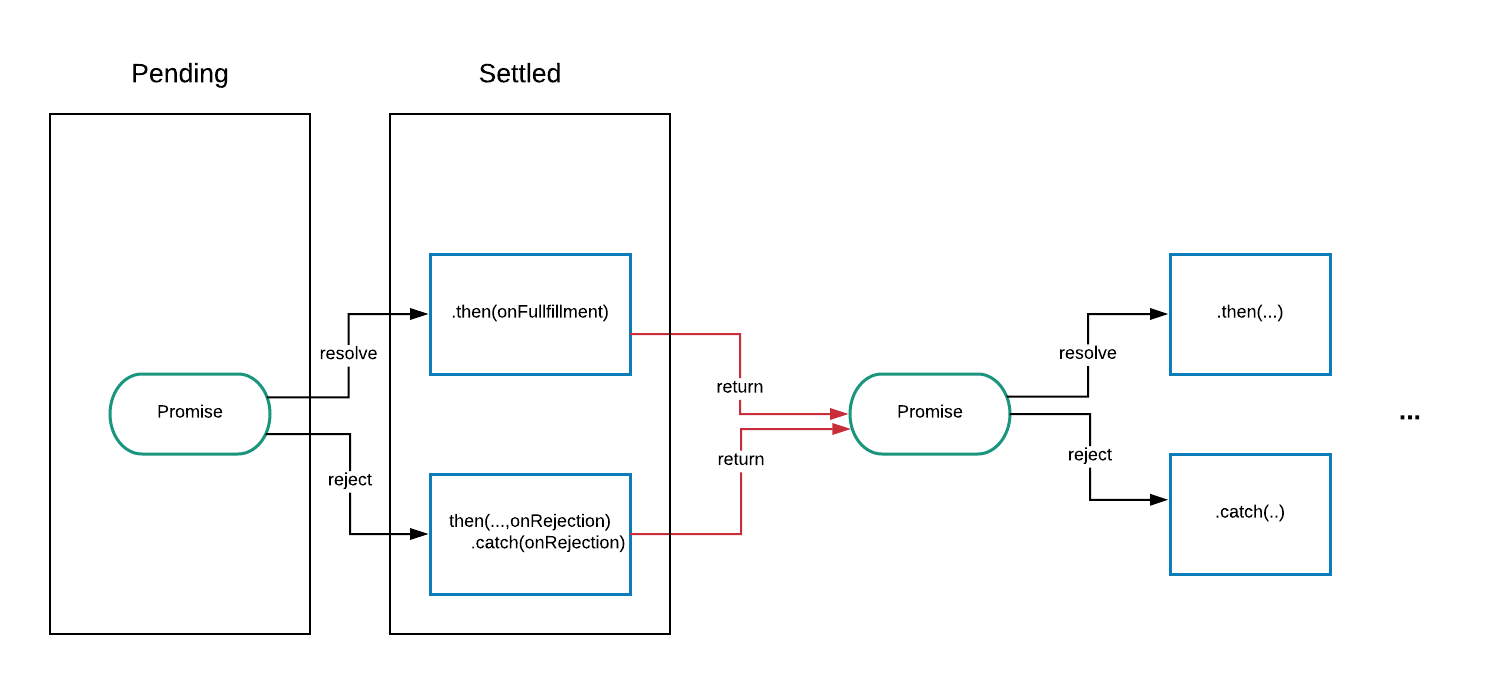
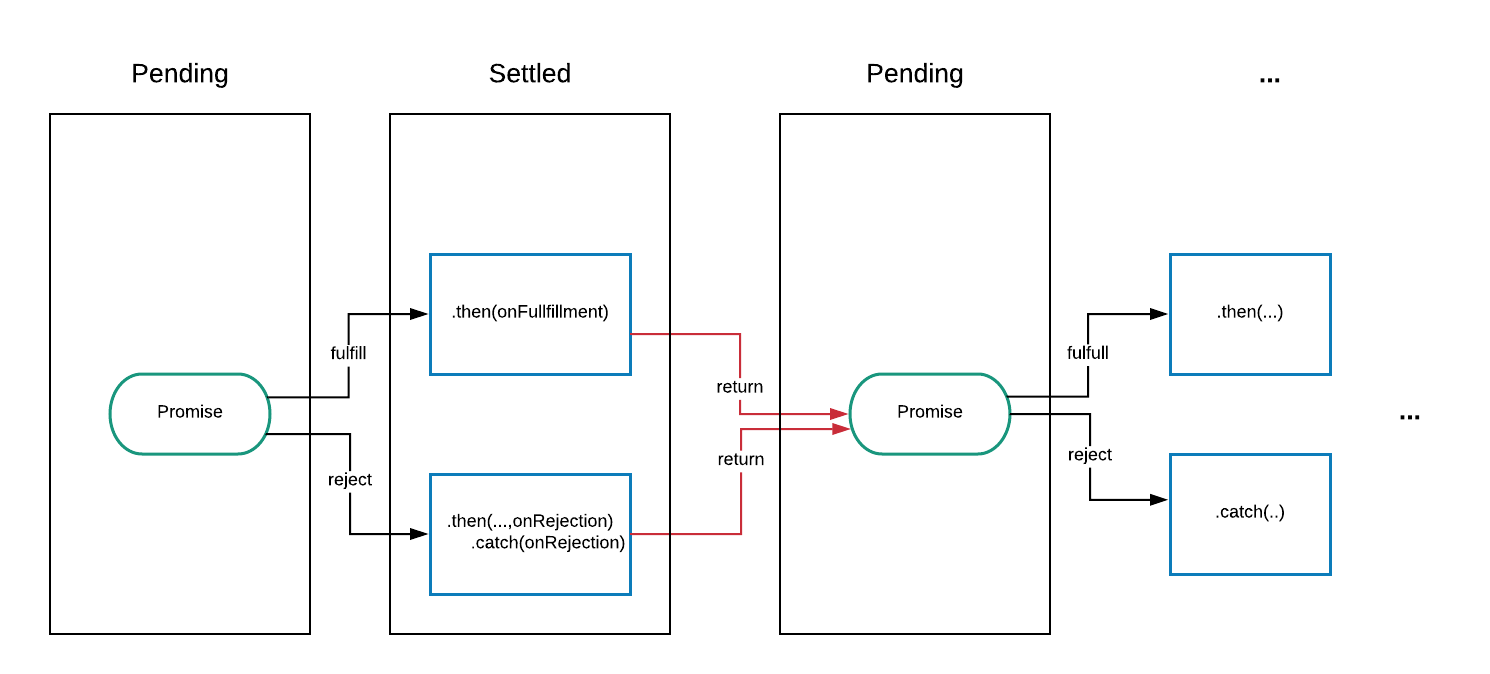
started with the rafactoring with promises

diff --git a/promises.tex b/promises.tex
@@ -1,6 +1,6 @@
 \section{Promises}
 
-Ein Promise repräsentiert ein Objekt das noch nicht absehbar ist, aber in Zukunft genutzt werden soll. Als Beispiel könnte man den Inhalt einer Datei, die von einem File-Server in einem Browser geladen werden soll, nehmen. Dieser ist auf Anhieb nicht verfügbar, da die Daten zunächst über das Netzwerk übertragen werden müssen. Anstatt auf den Download zu warten, führt der Browser diesen Prozess asynchron aus. Das Prinzip der asynchronen Verarbeitung, bringt dabei Komplexität nach sich. Um dem entgegenzuwirken hat man in dieser Arbeit schon das Prinzip der Callbacks kennengelernt. Dank der Rückruffunktionen ist die Ausführung dieser Sprache in asynchron möglich. Sollten jedoch mehrere asynchrone Events voneinander Abhängig sein, kann das schnell zu unübersichtlichem Code führen (siehe Abb. 9). Mit Promises können voneinander abhängige Events übersichtlich dargestellt werden. Dank der Promise-Verkettung ist es auch möglich Fehlerbehandlungen übersichtlich abzudecken. Während bei Callbacks der Fokus darin liegt, in welcher Reihenfolge die Funktionen aufgerufen werden, sind Promises (mit ECMAScript 2015 eingeführt) danach gerichtet wie man mit dem Ergebnis der Interaktion umgeht.
+Ein Promise repräsentiert ein Objekt das noch nicht absehbar ist, aber in Zukunft genutzt werden soll. Als Beispiel könnte man den Inhalt einer Datei, die von einem File-Server in einem Browser geladen werden soll, nehmen. Dieser ist auf Anhieb nicht verfügbar, da die Daten zunächst über das Netzwerk übertragen werden müssen. Anstatt auf den Download zu warten, führt der Browser diesen Prozess asynchron aus. Wenn die Daten angekommen sind, führt das Promise-Objekt die Aktionen mit den erstellten Verarbeitungsmethoden fort. Das Prinzip der asynchronen Verarbeitung, bringt dabei Komplexität nach sich. Um dem entgegenzuwirken hat man in dieser Arbeit schon das Prinzip der Callbacks kennengelernt. Dank der Rückruffunktionen ist es Möglich auf blockierende Aktionen zu warten bis diese eingetroffen sind. Sollten jedoch mehrere asynchrone Events voneinander Abhängig sein, kann das schnell zu unübersichtlichem Code führen (siehe Abb. 6). Mit Promises können voneinander abhängige Events übersichtlich dargestellt werden. Dank der Promise-Verkettung ist es auch möglich Fehlerbehandlungen übersichtlich abzudecken. Während bei Callbacks der Fokus darin liegt, in welcher Reihenfolge die Funktionen aufgerufen werden, sind Promises danach gerichtet wie man mit dem Ergebnis der Interaktion umgeht.
 
 \subsection{Funktionsweise}
 
@@ -68,12 +68,12 @@ console.log(resolveRightAway);
 \end{figure}
 
 \noindent
-Dieser Promise springt auf Anhieb vom pending in den resolved Zustand, da die abhängige boolean-Variable vorher auf true gesetzt wurde. Umgekehrt, würde die boolean Variable auf false gesetzt werden, würde der Status rejected entsprechen.
+Promises haben einen Status und einen Wert. Bei der Initialisierung einer Promise-Instanz ist der Status erstmals immer ausstehend (pending). In diesem Beispiel löst sich der Promise auf Anhieb vom ausstehenden in den eingetroffenen (resolved) Zustand auf, da die abhängige boolean-Variable vorher auf true gesetzt wurde. Umgekehrt, würde die boolean Variable auf false gesetzt werden, würde der Status abgelehnt (rejected) entsprechen.
 
 \begin{figure}[H]
 \centering
 \includegraphics[width=12cm]{promise-beispiel-1}
-\caption{Promises haben einen Status und einen Wert}
+\caption{}
 \end{figure}
 
 \noindent
@@ -110,11 +110,11 @@ Im oberen Beispiel wird der Promise vorbehaltlos nach zehn Sekunden aufgelöst, 
 \end{figure}
 
 \noindent
-Wie man nun gesehen hat kann ein Promise Objekt den Status  \textbf{pending}, \textbf{resolved} oder \textbf{rejected} haben. Im Status pending ist der Ausgang der Aktion noch ungewiss und deshalb der Promise-Wert undefined. Ändert sich der Status bzw. ist die Aktion zum Promise eingetroffen oder fehlgeschlagen, ist der Status \textbf{settled}. Grundsätzlich läuft ein Promise also vom pending in den settled Status. In der nächsten Sektion wird auf das Verarbeiten von Promises näher eingegangen.
+Wie man nun gesehen hat kann ein Promise Objekt den Status \textbf{pending}, \textbf{resolved} oder \textbf{rejected} haben. Im Status pending ist der Ausgang der Aktion noch ungewiss und deshalb der Promise-Wert undefined. Ändert sich der Status bzw. ist die Aktion zum Promise eingetroffen oder fehlgeschlagen, ist der Status \textbf{settled}. Grundsätzlich läuft ein Promise also vom pending in den settled Status. In der nächsten Sektion wird auf das Verarbeiten von Promises näher eingegangen.
 
 \subsubsection{Verarbeiten von Promises}
 
-Zur Wiederholung: Ein Promise-Objekt repräsentiert das eventuelle Eintreffen oder Fehlschlagen einer asynchronen Operation, einschließlich des entstandenen Wertes. Ein solches Objekt bietet \textbf{statische} Methoden und \textbf{Prototyp}-Methoden. Die statischen Methoden können unabhängig von der Instanz aufgerufen werden, während die Prototyp-Methoden nur mit einer Instanz eines Promise-Objekts aufgerufen werden können. Es gibt drei Prototyp-Methoden. Alle der folgenden Methoden lassen sich unter einem Promise-Event einordnen:
+Zur Wiederholung: Ein Promise-Objekt repräsentiert das eventuelle Eintreffen oder Fehlschlagen einer asynchronen Operation, einschließlich des entstandenen Wertes. Ein solches Objekt bietet \textbf{statische} Methoden und \textbf{Prototyp}-Methoden. Die statischen Methoden können unabhängig von der Instanz aufgerufen werden, während die Prototyp-Methoden nur mit einer Instanz eines Promise-Objekts aufgerufen werden können. Unter folgenden Promise-Events lassen sich diese Methoden einordnen:
 
 \begin{itemize} 
 \item Pending: Der Ausgang des Promises ist noch(!) ungewiss.
@@ -124,19 +124,19 @@ Zur Wiederholung: Ein Promise-Objekt repräsentiert das eventuelle Eintreffen od
 \end{itemize}
 
 \noindent
-Eine oder mehrere der drei Prototyp-Methoden werden aufgerufen wenn ein Promise in den settled Zustand übergelaufen ist:
+Eine oder mehrere der drei Prototyp-Methoden werden aufgerufen, wenn ein Promise in den settled Zustand übergelaufen ist:
 
 \begin{description}
 
 \begin{figure}[H]
 \item \begin{lstlisting}[basicstyle=\small]
-Promise.prototype.catch(onRejected)
+Promise.prototype.then(onFulfilled, onRejected)
 \end{lstlisting}
 \end{figure}
 
 \begin{figure}[H]
 \item \begin{lstlisting}[basicstyle=\small]
-Promise.prototype.then(onFulfilled, onRejected)
+Promise.prototype.catch(onRejected)
 \end{lstlisting}
 \end{figure}
  
@@ -149,16 +149,16 @@ Promise.prototype.finally(onFinally)
 \end{description}
 
 \noindent
-Die untenstehende Grafik zeigt den Ablauf für das Eintreten der Events und wie man diese dann verarbeitet. Mit den Methoden \textbf{then()} und \textbf{catch()} werden auf eintretenden Aktionen reagiert. Da beide Methoden ein neues Promise-Objekt zurückgeben, können Promises reibungslos aneinandergekettet werden. Wenn \textbf{finally} an ein Promise Objekt angebunden wird, wird diese Callback-Funktion in jedem Fall aufgerufen, unabhängig davon ob der Promise \textbf{eingetroffen} oder \textbf{fehlgeschlagen} ist.
+Die untenstehende Grafik zeigt den Ablauf für das Eintreten der Events und wie man diese verarbeitet. Mit den Methoden \textbf{then()} und \textbf{catch()} werden auf eintretenden Aktionen reagiert. Diese Verarbeitungsmethoden werden aufgerufen wenn ein Promise in den settled Zustand angekommen ist. Im Erfolgsfall wird der Promise mit dem then()-Methode weiterverarbeitet. Im Fehlerfall hingegen wird die catch()-Methode aufgerufen. Da beide Methoden ein Promise-Objekt zurückgeben, können Promises reibungslos aneinandergekettet werden. Wenn \textbf{finally} an ein Promise Objekt angebunden wird, wird diese Methode in jedem Fall aufgerufen, unabhängig davon ob der Promise eingetroffen oder fehlgeschlagen ist.
 
 
 \begin{figure}[H]
-\includegraphics[width=12cm, height=6cm]{Promises-workflow}
+\includegraphics[width=13cm]{Promises-workflow}
 \caption{Weiterreichung eines Promise-Objekts \cite{promise-executor}}
 \end{figure}
 
 \noindent
-Promise-Fehlschläge können dabei auf zwei verschiedene Wege gefangen werden. Innerhalb der then() Methode kann eine zweite Funktion für das \textbf{Nicht-Eintreffen} der Operation festgelegt werden. Ein Beispiel dafür wäre:
+Promise-Fehlschläge können dabei auf zwei verschiedene Wege gefangen werden. Innerhalb der then()-Methode kann eine zweite, optionale Funktion für das \textbf{Nicht-Eintreffen} der Operation festgelegt werden. Ein Beispiel dafür wäre:
 
 \begin{figure}[H]
 \begin{lstlisting}[basicstyle=\small]
@@ -168,7 +168,7 @@ get('story.json').then((response) => {
   console.log('Failed!', error);
 })
 \end{lstlisting}
-\caption{Error-Handling ohne catch. \cite{callback-vs-promises}}
+\caption{Error-Handling innerhalb der then()-Methode. \cite{callback-vs-promises}}
 \end{figure}
 
 \begin{figure}[H]
@@ -179,11 +179,11 @@ get('story.json').then((response) => {
   console.log('Failed!', error);
 })
 \end{lstlisting}
-\caption{Error-Handling mit catch. \cite{callback-vs-promises}}
+\caption{Error-Handling mit der catch()-Methode. \cite{callback-vs-promises}}
 \end{figure}
 
 \noindent
-Im Gegensatz zur oberen Variante führt die catch() Methode keine zusätzlichen Operationen aus. Sie macht den Code lediglich semantisch lesbarer. Wichtig zu beachten ist, dass innerhalb einer Executor-Funktion \textbf{niemals} beide Argumente gemeinsam eintreffen können. Sie verhalten sich exklusiv. Deshalb ist das letztere Beispiel im Verhalten vergleichbar mit diesem Beispiel:
+Im Gegensatz zur oberen Variante führt die catch()-Methode keine zusätzlichen Operationen aus. Sie macht den Code lediglich semantisch lesbarer. Wichtig zu beachten ist, dass innerhalb einer Executor-Funktion \textbf{niemals} beide Argumente gemeinsam eintreffen können. Sie verhalten sich exklusiv. Deshalb ist das letztere Beispiel im Verhalten vergleichbar mit diesem Beispiel:
 
 \begin{figure}[H]
 \begin{lstlisting}[basicstyle=\small]
@@ -196,7 +196,7 @@ get('story.json').then((response) => {
 \end{figure}
 
 \noindent
-Der Unterschied ist minimal, aber extrem hilfreich. Promise-Fehlschläge gelangen bei der nächsten then Methode in den fehlgeschlagen Callback weiter oder in die catch Methode(,wenn vorhanden). Mit then(func1, func2) wird entweder die erste oder die zweite Funktion aufgerufen, aber niemals beide. Jedoch mit then(func1).catch(func2) werden beide Callbacks aufgerufen, sollte die erste Funktion fehlschlagen. Dies ist nur Möglich, da die Funktionen in unterschiedlichen Stellen der Verkettung liegen. Neben den Prototyp-Methoden gibt es, wie bereits erwähnt, die statischen Methoden. Diese bestehen aus vier Methoden:
+Der Unterschied ist minimal, aber extrem hilfreich. Promise-Fehlschläge gelangen bei der nächsten then()-Methode in den fehlgeschlagen Callback weiter oder in die catch Methode(,wenn vorhanden). Mit then(func1, func2) wird entweder die erste oder die zweite Funktion aufgerufen, aber niemals beide. Jedoch mit then(func1).catch(func2) werden beide Callbacks aufgerufen, sollte die erste Funktion fehlschlagen. Dies ist nur Möglich, da die Funktionen in unterschiedlichen Stellen der Verkettung liegen. Neben den Prototyp-Methoden gibt es, wie bereits erwähnt, die statischen Methoden. Diese bestehen aus vier Methoden:
 
 \begin{itemize}
 \item Promise.resolve()
@@ -216,7 +216,6 @@ rejectedPromise.catch((err: string) => {
     console.log('Reason of failure: ' + err);
 });
 \end{lstlisting}
-\caption{introduction.ts}
 \end{figure}
 
 \noindent
